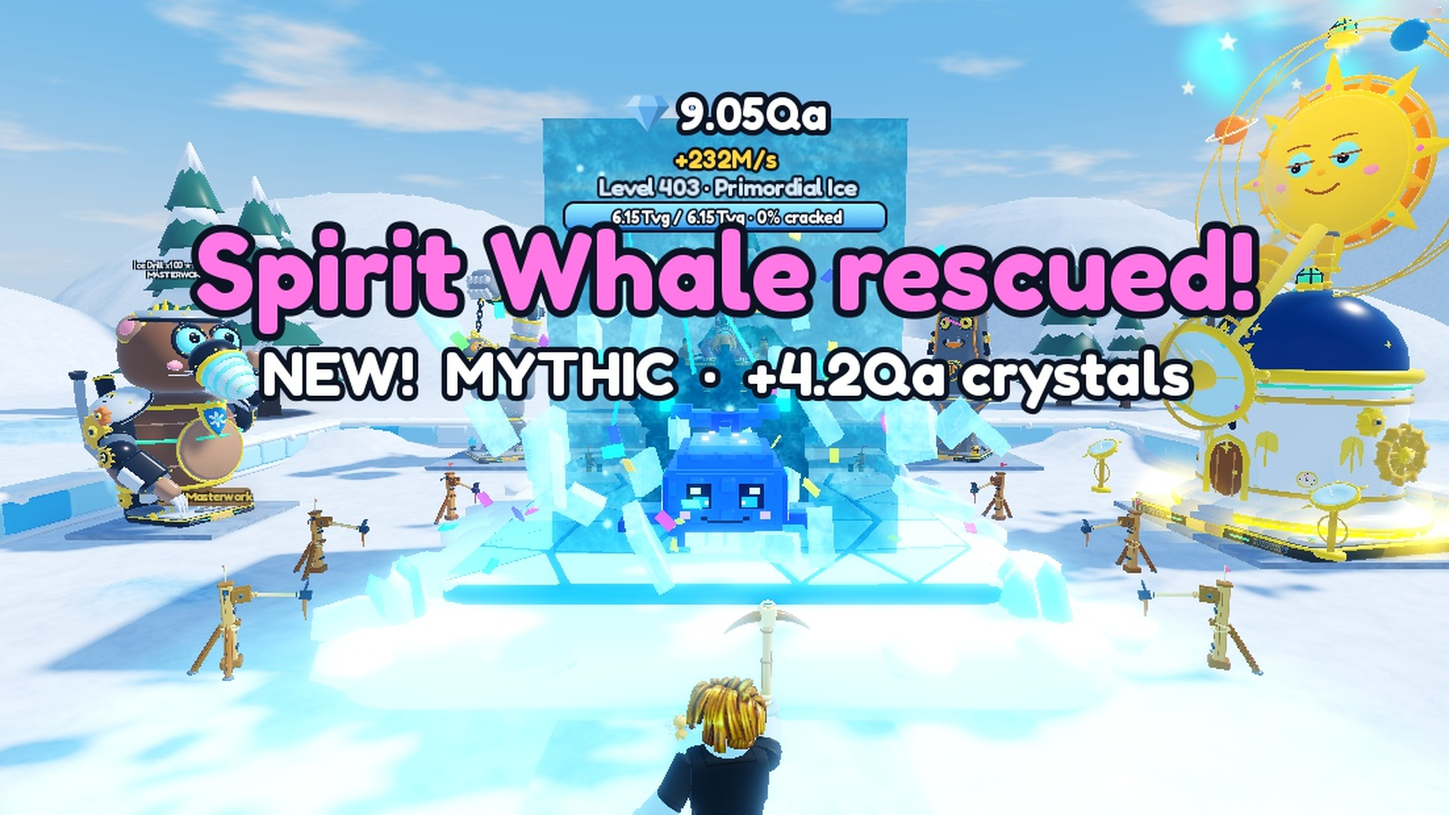
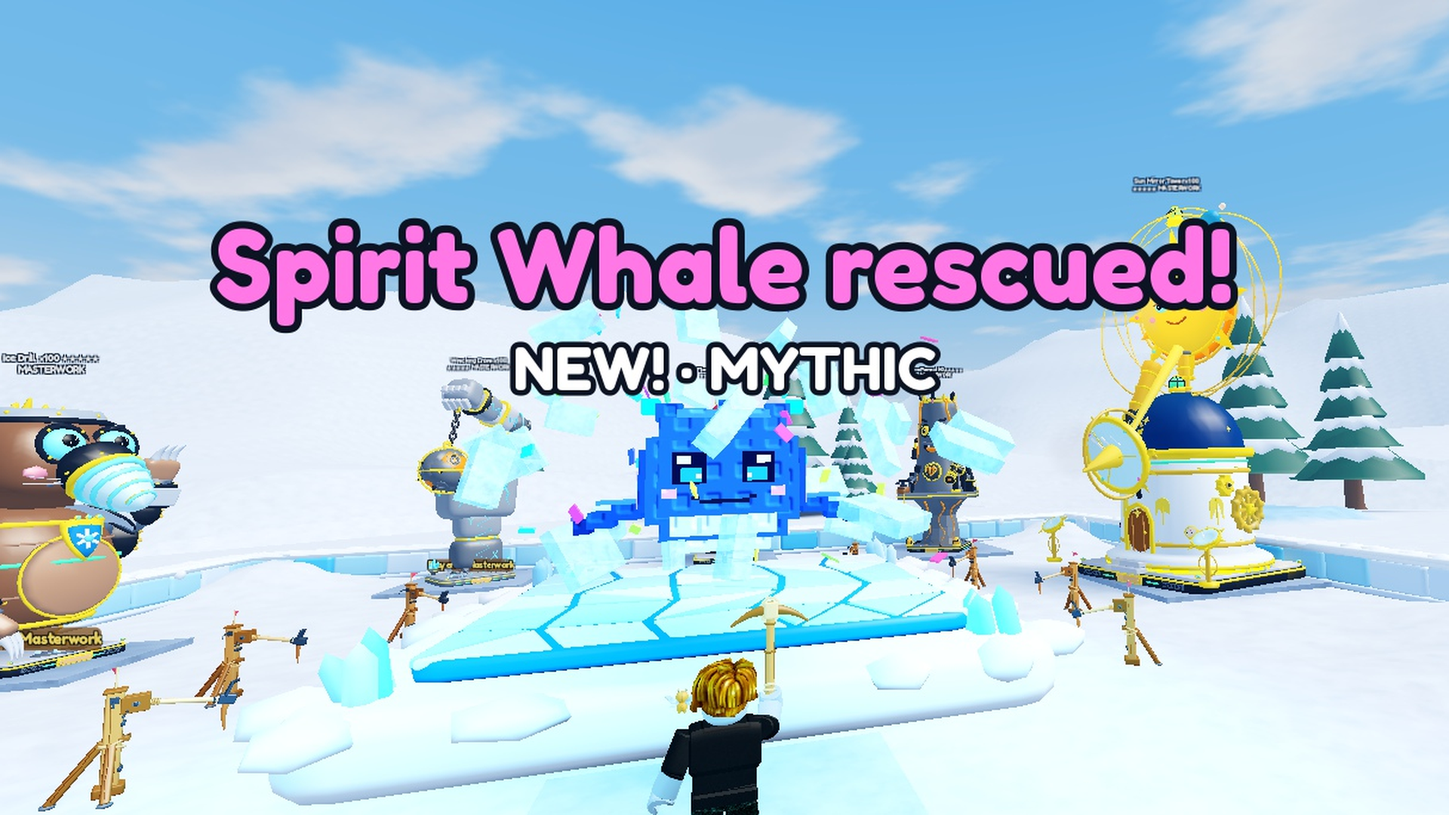
Launch fix pass: glacier look tuned, phone fixes, Frozen Core see-through, thumbnails retaken, report
- Golden Glacier: stronger gold, a crystal-cluster core, calmer glow, label at the block's foot
- Build cards: shorter detail, pips and income lines on narrow (phone) cards; Settings labels even
- Frozen Core ice is see-through so the rarity glow and veins show
- ShatterOffer type guard; debug action Set crystals
- Five thumbnails retaken at 1920x1080 with believable saves
- LAUNCH_PREP_REPORT, LAUNCH_CHECKLIST and AGENTS.md updated (streaming, icons, plaza boards)

diff --git a/AGENTS.md b/AGENTS.md
@@ -202,17 +202,19 @@ Studio-only test switches are Workspace attributes, read only when `RunService:I
 
 What is already in the repo (copied from Steal Pets and stripped of that game):
 
-- **Debug menu** (`DebugService`, `DebugActions`, `DebugRules`, `DebugConfig`; client `DebugMenu.client`, built with `ActionMenu`): **F2** or the small purple **DEBUG** button on the right edge. A target picker (any player here) and actions for the save (and, for performance tests, "Fill every empty plot with a maxed dummy plot" / "Free the dummy plots again") (save now, add crystals, set block level, set the ice pick tier, show it, reset to a fresh save that keeps receipts), offline earnings, analytics funnels, codes, Robux (give/remove a pass for this session, simulate a receipt or a gift, replay a duplicate receipt) and the Studio switches, plus teleport, walk speed and respawn. Access: everyone in Studio; live, only `DebugConfig.AllowedUserIds`, which is empty and must stay empty in shipped builds unless on purpose. The server checks every request (about one a second); others are rejected and logged (`[Debug] REJECTED`). To add an action, add one entry to `ACTIONS` in `DebugActions.luau`; the server validates every input against its `Params`. Every new system adds debug actions for itself.
+- **Debug menu** (`DebugService`, `DebugActions`, `DebugRules`, `DebugConfig`; client `DebugMenu.client`, built with `ActionMenu`): **F2** or the small purple **DEBUG** button on the right edge. A target picker (any player here) and actions for the save (and, for performance tests, "Fill every empty plot with a maxed dummy plot" / "Free the dummy plots again") (save now, add crystals, set crystals (screenshots), set block level, set the ice pick tier, show it, reset to a fresh save that keeps receipts), offline earnings, analytics funnels, codes, Robux (give/remove a pass for this session, simulate a receipt or a gift, replay a duplicate receipt) and the Studio switches, plus teleport, walk speed and respawn. Access: everyone in Studio; live, only `DebugConfig.AllowedUserIds`, which is empty and must stay empty in shipped builds unless on purpose. The server checks every request (about one a second); others are rejected and logged (`[Debug] REJECTED`). To add an action, add one entry to `ACTIONS` in `DebugActions.luau`; the server validates every input against its `Params`. Every new system adds debug actions for itself.
 - **Admin window** (`AdminService`, `AdminCommands`, `AdminRules`, `AdminConfig`; client `AdminWindow.client`): **F3** or the small red **ADMIN** button. (While either window is open, both edge buttons slide to its left, so neither sits on top of it; on a screen too narrow for that they hide until it closes.) Live servers: only the developer (`AdminConfig.AllowedUserIds = { 11704150663 }`); everyone in Studio. Commands: Launch, Rocket, Jail (effects in `PlayerEffects`), ServerInfo, Kick. Each prints `[Admin]` lines; others get `[Admin] REJECTED`. From MCP: `AdminRequest:InvokeServer("Run", { Action, Target, Args, Confirmed = true })`.
 - **Robux** (`MonetizationConfig`, `MonetizationRules`, `Receipts` (the only `ProcessReceipt`), `Gifting`, `GamePasses`, `RobuxShop`, `PurchaseRewards`, `PaidRandomPolicy`, `RobuxPerks` (what every item does: the reward kinds Pass, CrystalBundle, ShatterNow, ServerFrostRush, MythicBlock, and the pass perks); client `ShopWindow.client`, `PriceCache`, `ShatterOffer.client`, `VipLounge.client`): every pass and product of the design doc is in the config with `Id = 0` (and `GiftId = 0`); only the ids are missing (`docs/ROBUX_PRODUCTS.md`). Passes are gifted through a "Gift: <name>" developer product each, and a gifted pass is saved (`GiftedPasses`). The debug action "Show the target's Robux perks" prints every multiplier. To sell something new: create it on the Creator Hub, add it to `MonetizationConfig` with its real id, and register its reward kind in `PurchaseRewards.Kinds` (`{ CanGive, Give }`); a reward kind that isn't registered is refused before the prompt, and its receipt answers `NotProcessedYet`, so no Robux is ever taken for nothing. An item without a real id runs a SIMULATED purchase in Studio through the real receipt handler. `[Purchase]`, `[Gift]` and `[PriceCheck]` lines in Output; pass ownership shows as `Owns_<Key>` player attributes; purchase notices go to the client on `PurchaseNotice`. The developer account counts as owning every pass: test a pass purchase as a Studio test player (Test > Clients and Servers). Paid random items must follow `PaidRandomPolicy` and show their odds.
 - **Promo codes** (`CodeService`, `CodeRules`, `CodesConfig`; client `CodesWindow.client`): `CodesConfig` is server-only (a code never reaches a client before it is typed) and empty. A code's reward is a `PurchaseRewards` reward, so it needs a registered reward kind. Each player redeems a code once (`Codes` in the save); attempts are rate-limited. `[Codes]` lines in Studio.
 - **Offline earnings** (`OfflineEarnings`, `OfflineEarningsRules`; client `OfflineEarningsPopup.client`): measures the time away from `PlayerData.TakeLeftAt` (or `StudioTimeAway`), capped by `OfflineEarningsRules.Settings`. Nothing is paid until gameplay registers an earner with `OfflineEarnings.SetEarner(function(player, data, secondsAway, settings) return amount, label end)`. The popup follows the player's `OfflineEarnings` attribute (JSON `{ Amount, Seconds, Capped, Label, At }`). `[Offline]` lines in Studio.
 - **Analytics** (`Analytics` on the server, `AnalyticsConfig` and `AnalyticsRules`): Roblox's AnalyticsService, server only. In Studio nothing is sent; each step prints an `[Analytics]` line instead. Only the player object, step numbers and config names are sent, never names or ids. The one-time onboarding funnel (`AnalyticsConfig.Onboarding`, empty until the game adds steps; logged in order, early steps wait in the save's `Funnels.Waiting`) and the Robux shop funnel (1 Opened shop, 2 Viewed item, 3 Prompt shown, 4 Purchased; the window reports on `ShopVisit`). **Never rename or reorder a step or funnel** once live; add new steps at the end.
 - **UI kit**: see UI below.
-- **Building and pick models** (uploaded as group 921449746; ids in `ASSET_IDS.md`, written into `BuildingConfig.ModelIds`, `UpgradeConfig.PickModelIds` and `EffectsConfig.Textures` by `python tools/write_asset_ids.py` after `tools/upload_models.py`). Studio templates live in the place file: `ServerStorage.BuildingTemplates.<Id>.T<tier>` (a Model with a `Root` PrimaryPart carrying the named attachments, and `Upgrades.U1..U5`) and `ServerStorage.PickTemplates.Pick<tier>` (Tools), built in Edit mode by `tools/studio/build_templates.luau` (one set at a time: `ONLY = "IcePickPost"`, ..., `"Picks"`). Rebuild them after re-uploading a model, then save the place. `PlotService` clones the tier's station onto its pad facing the ice (a greybox stand-in if a template is missing), `PickService` keeps the player's pick tier in their hand (spec `tests/Pick.spec.luau`), a faded Ice Pick Post becomes the fence ring round the ice (`BuildingConfig.Fence`), and `BuildingEffects.client` puts the particles, lights and the Legendary ground ring on the attachments.
+- **Building and pick models** (uploaded as group 921449746; ids in `ASSET_IDS.md`, written into `BuildingConfig.ModelIds`, `UpgradeConfig.PickModelIds` and `EffectsConfig.Textures` by `python tools/write_asset_ids.py` after `tools/upload_models.py`). Studio templates live in the place file: `ServerStorage.BuildingTemplates.<Id>.T<tier>` (a Model with a `Root` PrimaryPart carrying the named attachments, and `Upgrades.U1..U5`; every MeshPart RenderFidelity Automatic, for phones) and `ServerStorage.PickTemplates.Pick<tier>` (Tools), built in Edit mode by `tools/studio/build_templates.luau` (one set at a time: `ONLY = "IcePickPost"`, ..., `"Picks"`). Rebuild them after re-uploading a model, then save the place. `PlotService` clones the tier's station onto its pad facing the ice (a greybox stand-in if a template is missing), `PickService` keeps the player's pick tier in their hand (spec `tests/Pick.spec.luau`), a faded Ice Pick Post becomes the fence ring round the ice (`BuildingConfig.Fence`), and `BuildingEffects.client` puts the particles, lights and the Legendary ground ring on the attachments.
 
 - **Building and reward moments** (client): `BuildMoments.client` (the first copy rises from the snow with a puff and a camera nudge; a new station milestone flashes white with "Your X evolved!"; a building upgrade flashes and puffs), `RareWatch.client` (a beam in the rarity colour over another plot holding a Legendary or Mythic block until it is freed), rescue confetti (RescueMoment), the sled under an arriving block, crystal colours by ice upgrades and spark colours by pick tier (`IceLooks.CrystalColours`, `IceLooks.PickSparks`). Server: a star per building upgrade on the station badge, a Masterwork name plate, the golden pick skin (Creature Book Golden page, `PickService`) and the aurora trail (Mythic page, `RankService`).
 - **Plot parts** (`tools/blender/plot_parts.py`, `store-assets/plot/`, ids in `MapConfig.PlotModels`): the frozen ice stage, the ice-block walls (long and short) and the ice gate with its two name boards, in the buildings' style. `tools/studio/build_templates.luau` with `ONLY = "Plot"` builds `ServerStorage.PlotTemplates`; `PlotService` shows them over the plot's own Parts, which turn invisible and keep the collision (with a template missing, the plain Parts show). The owner's name is a SurfaceGui on the boards (`NameBoardLeft`/`NameBoardRight`, both faces). `...Trim` meshes carry the `RankColour` attribute, and `RankService` colours them with the rebirth rank.
+- **Plaza boards** (`tools/blender/plaza_boards.py`, `store-assets/plaza/`, id in `MapConfig.PlazaModels`): the carved ice-and-wood leaderboard board. `build_templates.luau` with `ONLY = "Plaza"` builds `ServerStorage.PlazaTemplates`; `PlazaService` places one per leaderboard behind the invisible `Face` part that carries the SurfaceGui (a plain slab if the template is missing).
+- **Streaming** (place setting, saved with the place): `Workspace.StreamingEnabled` on, target radius 240, minimum 96, `StreamOutBehavior` Opportunistic. The plaza is a Persistent model; every station and the plot's own looks are `PersistentPerPlayer` for the owner (atomic for everyone else; `PlotService.streamLook`). Plot Models and their folders (the `Block` attributes) always replicate, so client code reads block state at any distance but must not assume another plot's parts exist; `BuildingEffects.client` rebuilds a station's effects when it streams back in. With streaming on, the camera alone doesn't load an area: move the character (or `RequestStreamAroundAsync`) before judging a far view.
 - **World** (`tools/studio/build_world.luau`, Edit mode, then save the place): removes the Baseplate and builds the snow terrain (in every plot the drifts and ice patches from `MapConfig.PlotGround`; the plots' own Base parts are invisible floors), frozen ponds, hills, mountains, the snowy pines (`Workspace.Scenery`, `store-assets/scenery/`) and the winter sky (`tools/make_skybox.py`). Re-run it after changing `MapConfig.PlotGround`. Smooth terrain draws a filled layer's surface 2 studs above its top; the script allows for it and reports the measured surface.
 
 ## Code Guidelines
@@ -231,7 +233,7 @@ What is already in the repo (copied from Steal Pets and stripped of that game):
 Style follows the roblox-ui-style skill, recoloured icy blue and white: every token is in `src/replicated/UITheme.luau` (window themes `Ice`, `Polar` and `Showcase`; card palettes; buttons `Go`, `Buy`, `Neutral`, `Gift`, `Frost`), and every screen is built from `src/replicated/UIKit.luau` (labels, the studded button, cards, scroll lists, tabs, progress bars, the responsive `Screen` root and the `Window` shell) and `src/replicated/ShowcaseKit.luau` (the showcase window, cards, buy and info buttons, stickers, HUD buttons). Build new UI from the kit, not raw Instances. The F2 debug and F3 admin windows (`ActionMenu`) keep their plain tool look on purpose.
 
 - **HUD** (`HUD.client`): the left-edge menu (SHOP, CODES), at the top left on touch screens. Windows find their button with `UIKit.MenuButton("Shop")`. From MCP, click `LocalPlayer.PlayerGui.HUD.Root.Menu.Grid.ShopButton` (or `CodesButton`); a window's close button is `LocalPlayer.PlayerGui.<Name>Window.Root.Panel.Close`.
-- **Pictures:** `UITheme.Icons`, `ShopIcons` and `Sheets` are empty until this game's own pictures are made and uploaded (as group 921449746); a missing picture falls back to text. The only image ids in the kit are the two public library images from the skill (`UITheme.Assets`: the checker and the Robux icon).
+- **Pictures:** `UITheme.Icons` holds the game's own UI icons (the menu, each building, the pick tiers and the ice upgrades, plus `UpgradeBadge`), rendered from its models by `python tools/icons/compose_icons.py --ui --render` into `store-assets/ui-icons/` and uploaded as group 921449746 (a changed picture gets a new id: swap it in). `ShopIcons` and `Sheets` are still empty; a missing picture falls back to text. The only image ids in the kit are the two public library images from the skill (`UITheme.Assets`: the checker and the Robux icon).
 - **Audio:** play every sound through `Audio` (never a raw Sound) so the player's Music / Sound effects volume (Settings, saved) applies; note each id's source and licence beside it in `src/replicated/AudioConfig.luau`. The sound effects are original, made by `python tools/make_sfx.py` into `store-assets/audio/<Name>.ogg` and uploaded as the group (ids in `AudioConfig.Files`); a changed sound gets a new id. Ogg files get a random serial number when written, so the script only rewrites a sound whose samples changed (`store-assets/audio/sources.json`). When sounds play is in `SoundRules` (settings `AudioConfig.Rules`, spec `tests/SoundRules.spec.luau`): your taps capped at 3 at once, building hits only an occasional quiet chip from your own plot, other plots only Legendary and Mythic rescue jingles within 60 studs. `GameSounds.client` plays the income tick, book pages and the debug menu's "Play a sound" (Sound group). Music: `MusicPlayer.client` crossfades `AudioConfig.Music.Plaza` / `.Plot`; their ids are empty until the developer picks licensed tracks, and an empty id plays nothing.
 
 Support desktop and mobile/touch; check phone layouts with `StudioScreenSize` (for example `Vector2.new(844, 390)`).
@@ -257,7 +259,7 @@ Keep these protections:
 
 Current schema: Schema 1.
 
-- 1, the game (docs/GAME_DESIGN.md, "Data and code structure"; this code's names are PascalCase): `Crystals`, `CrystalsThisRun`, `CrystalsAllTime` (amounts: finite, non-negative, may be fractional), `BlockLevel` (from 1), `CurrentBlock` (`{ CreatureId, HpLeft }`, or none: the server rolls a new block), `Buildings` (`{ [building id] = count }`), `Upgrades` (upgrade ids), `Pets` (`{ Uid, CreatureId, Golden }`, at most `CreatureConfig.Pets.InventorySize`), `Equipped` (owned pet uids, at most `MaxEquipSlots`), `BookSeen` (`{ [creature id] = rescue count }`), `FrostCores`, `Rebirths`, `MaxLayerOpened` (starts at `LayerConfig.FloorLayer`), `CreaturesRescued`, `TutorialStep` (1-5, 5 = done), `MythicBlocks` (Mythic Blocks bought, not rolled yet). The doc's `codesRedeemed` is `Codes`, `lastOnline` is `LeftAt` and `purchaseIds` is `Receipts`; bought pass ownership is never saved, but a pass received as a gift is (`GiftedPasses`, `{ [pass key] = true }`). Progress that can't be read fails closed; unknown creature, building and upgrade ids are dropped; a block that can't be read is rolled again. The rebirth reset list is `RebirthConfig.ResetOnRebirth`. Display attributes: `Crystals`, `BlockLevel`, `Rebirths`, `FrostCores`.
+- 1, the game (docs/GAME_DESIGN.md, "Data and code structure"; this code's names are PascalCase): `Crystals`, `CrystalsThisRun`, `CrystalsAllTime` (amounts: finite, non-negative, may be fractional), `BlockLevel` (from 1), `CurrentBlock` (`{ CreatureId, HpLeft }`, or none: the server rolls a new block), `Buildings` (`{ [building id] = count }`), `Upgrades` (upgrade ids), `Pets` (`{ Uid, CreatureId, Golden, Locked }`, `Locked` true or absent; at most `CreatureConfig.Pets.InventorySize`), `Equipped` (owned pet uids, at most `MaxEquipSlots`), `BookSeen` (`{ [creature id] = rescue count }`), `FrostCores`, `Rebirths`, `MaxLayerOpened` (starts at `LayerConfig.FloorLayer`), `CreaturesRescued`, `TutorialStep` (1-5, 5 = done), `Settings` (`{ Music, Sounds, ReducedEffects, AutoEquip }`, auto-equip on unless turned off), `MythicBlocks` (Mythic Blocks bought, not rolled yet). The doc's `codesRedeemed` is `Codes`, `lastOnline` is `LeftAt` and `purchaseIds` is `Receipts`; bought pass ownership is never saved, but a pass received as a gift is (`GiftedPasses`, `{ [pass key] = true }`). Progress that can't be read fails closed; unknown creature, building and upgrade ids are dropped; a block that can't be read is rolled again. The rebirth reset list is `RebirthConfig.ResetOnRebirth`. Display attributes: `Crystals`, `BlockLevel`, `Rebirths`, `FrostCores`.
 - 1, bookkeeping: `Receipts` (granted Robux receipts `{ Id = PurchaseId, Product, At, For }`, the most recent 50), `PendingGifts` (`{ [product key] = { Recipient, RecipientName, Store, Key, State = "prompted" | "purchased", At } }`), `GiftInbox` (store only: gifts other players sent, `{ Id, Product, From, FromName }`; other servers add to it with `PlayerData.UpdateRecord`, and the owner's saves MERGE it, never overwrite it), `ReceivedGifts` (gift ids given, the most recent 100), `Codes` (redeemed promo codes, upper case letters and digits, the most recent 200), `Funnels` (`{ Onboarding = steps logged, Waiting = { steps reached early } }`), `LeftAt` (store only: the server's `os.time()` at every save, handed out once per session by `PlayerData.TakeLeftAt`), plus `Session` and `LastWriteId` (lease bookkeeping). A debug reset keeps `Receipts`, `PendingGifts` and `ReceivedGifts`.
 - The fields from `docs/GAME_DESIGN.md` ("Data and code structure") join schema 1 while nothing is live. Once the game is public, every change to what is saved bumps the schema and adds a validation step.
 

diff --git a/LAUNCH_PREP_REPORT.md b/LAUNCH_PREP_REPORT.md
@@ -1,6 +1,91 @@
 # Launch prep: overnight report
 
-Branch `overnight-launch-prep` (from `main` at 348b0e5). Pushed after every phase; not merged.
+Branch `overnight-launch-prep` (from `main` at 348b0e5), merged into `main` in the launch fix pass (first section).
+
+## Launch fix pass (2026-11-25)
+
+`overnight-launch-prep` is merged into `main` (a normal merge). Everything below is on `main`. All 20 specs pass (5,006 checks).
+
+**Your answers, as built**
+- **Bundles and the daily chest** pay "your income": the HUD's crystals per second with the permanent bonuses but no rushes (`Economy.SteadyIncome`). Taps count at your recent rate, but at least 4 a second, so opening the shop (which stops your tapping) still pays something. Rushes are now flagged as temporary multipliers (`Economy.AddExtra(fn, true)`). Bought crystals count toward Frost Cores.
+- **Doc fixes:** the core loop and the rebirth text now say pets and Frost Cores multiply crystals. Kept as is: Mythic odds, stacking, rush extension, likes codes.
+- **Space** jumps again on PC everywhere. Gamepad A and R2 still tap in your plot.
+- **Rebirth goal on the HUD** from level 25: "Rebirth at level 31: N to go", then a pulsing "REBIRTH READY: +N Frost Cores" (`RebirthConfig.Goal`, spec-checked against the doc).
+- **Auto-equip:**
+  - The best pets are equipped after each rescue, with a toast when the new pet is one of them.
+  - It's on by default, with an ON/OFF in Settings (`Settings.AutoEquip`).
+  - Choice I made: it waits until the tutorial is done, so the tutorial's "Equip your new pet" step still teaches equipping.
+- **Delete all below a rarity:**
+  - With no pet picked, the Pets window's delete button opens "Delete every pet below: Uncommon / Rare / Epic / Legendary / Mythic", showing the count for each. One press asks "DELETE 25?", a second press deletes.
+  - It skips locked, equipped and Golden pets. Skipping Golden is my choice: a Golden pet costs five copies.
+  - The save had no pet lock yet, so I added one: a LOCK button and a lock mark on the tile. Saved as `Locked` on the pet (schema 1, allowed while not live). A locked pet can't be deleted or combined.
+- **Icons:**
+  - 27 UI icons rendered from the game's own models in the store-icon style: the 8 menu buttons, the 8 buildings, the 6 pick tiers, Frost Touch, Bigger Burst, Crystal Yield, Fast Sled and an up-arrow badge.
+  - They're in `store-assets/ui-icons/` (see `contact_sheet.png`), uploaded as group 921449746 (all approved) and set in `UITheme.Icons`.
+  - The Build cards show the building's icon (dark while still locked). Upgrade tiles show the pick, the building with the badge, or the ice upgrade.
+- **Legendary glow** is amber (255, 120, 20). Checked at layers 1, 3 and 5: it reads orange, no lime.
+  - At layer 6 the old near-opaque black glass hid every glow, and its own veins, so Frozen Core is now see-through dark ice (`IceLooks`). I couldn't re-shoot layer 6 after that change; check it by eye.
+- **Book tabs:** they shrink to fit the window, and on the smallest phones they show short names (COM, UNC, RARE, EPIC, LEG, MYTH, GOLD). Checked at 667x375.
+- **Phones:**
+  - **Fidelity:** every building, pick, plot and plaza template mesh is RenderFidelity Automatic (templates rebuilt: 1,256 meshes, 0 Precise).
+  - **Streaming:** `Workspace.StreamingEnabled` is on: target radius 240, minimum 96, opportunistic stream-out.
+  - **What always loads:** the plaza is a Persistent model, and your own plot's stations and looks are PersistentPerPlayer, so they stay loaded for you anywhere. Other players' stations stream in and out whole.
+  - **Tested:** from across the ring your own plot kept all 8 stations while far stations streamed out. Back home, they returned with their effects rebuilt. Name boards, block state, rare-block beams and the Golden Glacier all kept working (they're drawn from folders that always replicate, or by the client).
+
+**Your screenshot fixes**
+- **Windows over the HUD:** the crystal counter now hides while a window is open. The Build and Upgrades windows show "You have N crystals" on their bottom line instead (a purchase's answer shows there for 3 seconds first).
+- **Golden Glacier:**
+  - see-through golden ice with a frosted top;
+  - a cluster of glowing crystals turning at its core;
+  - sparkles;
+  - white-gold cracks spreading in four stages, with the core burning brighter;
+  - its TAP IT label sits at the block's foot.
+- **Leaderboards:**
+  - carved ice-and-wood boards in the plot parts' style (`tools/blender/plaza_boards.py`): log posts with snow caps, a carved ice frame with icicles, a wooden header with a crown medallion, crystals;
+  - 10.6k triangles, uploaded as the group (asset 105555700752777, approved), built into `ServerStorage.PlazaTemplates`;
+  - the SurfaceGui stays on the invisible Face part in front of the panel.
+
+**Performance** (8 maxed plots, client in front, compared with the Precise numbers in Phase 6 below)
+
+| View | Triangles before | now | Render CPU before | now |
+|---|---|---|---|---|
+| Plaza | 821k | 856k | 15.5 ms | 14.3 ms |
+| Across the ring | 1,323k | 967k (-27%) | 17.1 ms | 15.0 ms |
+| Tapping spot | 317k | 238k (-25%) | 14.5 ms | 14.2 ms |
+
+- All views ran at 60 fps (the Studio cap).
+- The plaza view doesn't drop: every plot is within 240 studs of the plaza and within Automatic's full-detail range from there.
+- The big saving is across the ring and at home, where far plots stream out and far meshes use lower detail.
+- On a phone, Roblox's level of detail is more aggressive and streaming shrinks the radius under memory pressure, so the saving there should be larger than Studio on a PC shows. Measure it on a real phone.
+
+**Thumbnails** (`store-assets/launch/`, all 1920x1080, replacing the drafts)
+- `thumb_mythic_rescue.png` (the hero), `thumb_maxed_plot_legendary.png`, `thumb_golden_glacier_rush.png` (three players), `thumb_creature_book.png`, `thumb_fresh_plot_start.png`.
+- Debug UI, tutorial hints and name tags are hidden in all of them.
+- HUD numbers come from believable saves:
+  - mid-game 4.8-6.2M crystals at +5.6K/s and level 28;
+  - the maxed plot shows 1.21B at +232M/s, because a plot that earns 232M a second can't hold "a few million" for a second. Its HP bar is out of frame, so no Tvg.
+- **Size:** Studio's side panels limit the viewport to 1565x683 even maximized and full screen (F11), so the UI was laid out in a 16:9 region (`StudioScreenSize` 1214x683), cropped and scaled 1.58x to 1920x1080. They're sharper than the drafts but not native. For native 1920x1080, close Studio's panels and use `tools/studio/thumbnail_cameras.luau`.
+- **Layout:** that pretend-screen layout puts the menu at the top left (the phone layout), not centred on the left.
+- **Staged hero:** the Mythic rescue is staged from the game's own pieces, with the block's ice and the HUD hidden, as before.
+
+**Also found and fixed**
+- The Build cards' detail, pips and income-share lines clipped on phones once the icon took room. Narrow cards now drop the flavour text and shorten "to Masterwork" and "of building income".
+- The Settings labels were shortened so both read at the same size.
+- `ShatterOffer` threw "attempt to index boolean with 'GetAttribute'" twice at join in one streaming test. The code path can't produce a boolean as written, so I added a type guard. Watch for it in Output.
+- New debug action **Set crystals** (screenshots, believable balances).
+
+**Questions**
+1. The VIP lounge now shows in the plaza, because the VIP pass exists in `MonetizationConfig` (with id 0). Hide it in a live game until the pass has a real id?
+2. Golden pets are skipped by "Delete all below". OK?
+3. Auto-equip waits for the tutorial to finish. OK?
+
+**Check by eye**
+- **Icons:** the 27 icons in the menu, Build and Upgrades (`store-assets/ui-icons/contact_sheet.png`). The agent flagged that Pick 1-3 look alike at 48 px, and the tier-1 buildings are thin wooden machines.
+- **Golden Glacier:** its new look in a real rush: the crystal core and the label at the foot.
+- **Leaderboards:** the new boards from the plaza.
+- **Frozen Core (layer 6):** the new see-through dark ice with any rarity inside (not seen after the change).
+- **Streaming pop-in:** walking across the ring, stations should stream in and out whole and not look broken. Also check the far ring from the plaza with Automatic detail. Earlier passes chose Precise because Automatic looked blocky far away.
+- **Pets window:** auto-equip after a rescue (toast), LOCK, and "Delete below" on a real phone.
 
 ## Summary
 

diff --git a/docs/LAUNCH_CHECKLIST.md b/docs/LAUNCH_CHECKLIST.md
@@ -4,8 +4,8 @@ Every step you do by hand to launch Rescue Pets From the Ice, in order. Tick eac
 
 ## 1. Before you start
 
-- [ ] Merge the `overnight-launch-prep` branch into `main` (after reviewing it), pull, and make sure `rojo serve` is running and the Studio plugin is connected.
-- [ ] Save the place in Studio and keep a backup copy of the `.rbxl` (File > Save to File As...). The building, pick and plot templates and the world live only in the place file.
+- [x] Merge the `overnight-launch-prep` branch into `main` (done in the launch fix pass). Pull, and make sure `rojo serve` is running and the Studio plugin is connected.
+- [ ] Save the place in Studio and keep a backup copy of the `.rbxl` (File > Save to File As...). The building, pick, plot and plaza templates, the world and the streaming settings live only in the place file.
 - [ ] Run every spec: `python tools/run_specs.py` (Studio open in Edit mode). All must pass.
 - [ ] Workspace attributes: none of the Studio test switches may be set (`StudioFreshSave`, `StudioUseLiveSaves`, `StudioTimeAway`, `StudioPaidRandomRestricted`); on the client switches `StudioScreenSize`, `StudioGamepad` are never saved. Check Workspace > Attributes is empty of them.
 - [ ] `ProximityPromptService.Enabled` is ticked (it is saved with the place; the UI kit turns it off while a window is open in Edit mode).
@@ -33,11 +33,14 @@ Then:
 ## 4. The place
 
 - [ ] Lighting > Technology is **Future** (Properties; the tools can't read it).
+- [ ] Workspace > StreamingEnabled is ticked, StreamingTargetRadius 240, StreamingMinRadius 96, StreamOutBehavior Opportunistic (set in the launch fix pass; saved with the place).
+- [ ] Every template MeshPart is RenderFidelity Automatic: if you rebuild templates, `tools/studio/build_templates.luau` already sets it.
 - [ ] Music: in the Toolbox (Creator Store > Audio, licensed tracks from Roblox, APM or ProSoundEffects), pick two loops and paste their ids into `AudioConfig.Music` with the source and licence beside each:
   - Plaza: a light, playful winter tune, about 100-120 BPM (bells, pizzicato, glockenspiel).
   - Plot: a calm, cosy loop, about 80-95 BPM (soft piano, music box or mallets, no vocals).
   Play once and walk in and out of your plot: the music crossfades. An empty id simply plays nothing.
 - [ ] Every audio file is approved: `python tools/upload_models.py --check --manifest store-assets/audio/upload_manifest.json`.
+- [ ] Every UI icon is approved: `python tools/upload_models.py --check --manifest store-assets/ui-icons/upload_manifest.json` (27 images, all approved on 2026-11-25), and the leaderboard model: `--manifest store-assets/plaza/upload_manifest.json` (approved at upload).
 
 ## 5. Codes
 
